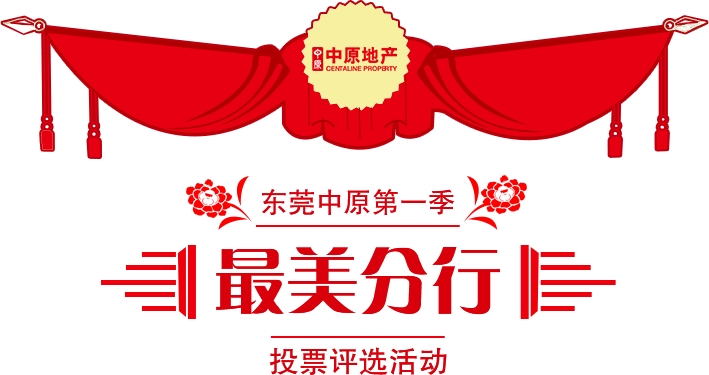
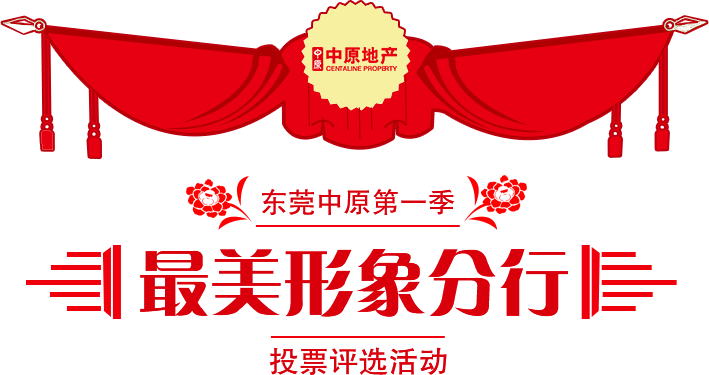
update

Changed region(s): [[0.031, 0.6453, 0.9619, 0.8507]]

diff --git a/src/components/homepage/HomePageBody.jsx b/src/components/homepage/HomePageBody.jsx
@@ -3,7 +3,7 @@ import PropTypes from 'prop-types'
 
 const icon1 = require('../../images/icon1.0.png')
 
-const HomePageBody = ({ teams, handleFormShow, handleDetailClick }) => {
+const HomePageBody = ({ teams, isSeasonEnd, handleFormShow, handleDetailClick }) => {
   return (
     <div>
       <div className="main-container">
@@ -29,18 +29,21 @@ const HomePageBody = ({ teams, handleFormShow, handleDetailClick }) => {
                   <span className="vote-count-span">总得分：{team.votingCount}</span>
                 </div>
               </div>
-              <footer className="item-foot-container" onClick={() => team.handleClick(team.id)}>
-
-                <span className="vote-btn-label">投TA一票</span>
-                <span className={team.className}></span>
-              </footer>
+              {isSeasonEnd ? null : (
+                <footer className="item-foot-container" onClick={() => team.handleClick(team.id)}>
+                  <span className="vote-btn-label">投TA一票</span>
+                  <span className={team.className}></span>
+                </footer>
+              )}
             </li>
           ))}
         </ul>
       </div>
-      <div className="btn-container">
-        <button className="vote-btn" onClick={handleFormShow}>马上投票</button>
-      </div>
+      { isSeasonEnd ? null : (
+        <div className="btn-container">
+          <button className="vote-btn" onClick={handleFormShow}>马上投票</button>
+        </div>
+      )}
     </div>
   )
 }

diff --git a/src/containers/HomePageContainer.jsx b/src/containers/HomePageContainer.jsx
@@ -67,23 +67,26 @@ class HomePageContainer extends React.Component {
   }
 
   render () {
-    const { teams, selectedTeamIds, handleSelectTeam, handleUnSelectTeam } = this.props
+    const { teams, selectedTeamIds, handleSelectTeam, handleUnSelectTeam, isSeasonEnd } = this.props
     const length = selectedTeamIds.length
-    teams.map(team => {
-      if (selectedTeamIds.findIndex(id => team.id === id) >= 0) {
-        team.className = 'vote-btn-btn-selected'
-        team.handleClick = handleUnSelectTeam
-      } else {
-        team.className = 'vote-btn-btn-default'
-        team.handleClick = length >= 3 ?
-          () => showErrorMesg('投票失败', '投票数不能超过3个')
-          :
-          handleSelectTeam
-      }
-    })
+    if (!isSeasonEnd) {
+      teams.map(team => {
+        if (selectedTeamIds.findIndex(id => team.id === id) >= 0) {
+          team.className = 'vote-btn-btn-selected'
+          team.handleClick = handleUnSelectTeam
+        } else {
+          team.className = 'vote-btn-btn-default'
+          team.handleClick = length >= 3 ?
+            () => showErrorMesg('投票失败', '投票数不能超过3个')
+            :
+            handleSelectTeam
+        }
+      })
+    }
     return (
       <HomePageComponent
         teams={teams}
+        isSeasonEnd={isSeasonEnd}
         handleFormShow={this.handleFormShow}
         handleDetailClick={this.handleDetailClick}
         handleSubmit={this.handleFormSubmit}

diff --git a/src/pages/HomePage.jsx b/src/pages/HomePage.jsx
@@ -10,7 +10,7 @@ import 'loaders.css/loaders.css'
 class HomePage extends React.Component {
 
   static defaultProps = {
-    title: '最美分行第一季度评选'
+    title: '最美形象分行第一季度评选'
   }
   static propTypes = {
     fetchRequestTeams: PropTypes.func.isRequired,
@@ -22,8 +22,8 @@ class HomePage extends React.Component {
   }
 
   render () {
-    const { teams, selectedTeamIds, errorMesgArray,
-      handleSelectTeam, handleUnSelectTeam, handlePostVoting, isVoting } = this.props
+    const { teams, selectedTeamIds, errorMesgArray, isSeasonEnd,isVoting,
+      handleSelectTeam, handleUnSelectTeam, handlePostVoting } = this.props
     const votingErrorMesg =
       errorMesgArray.find(e => e.errorType === actionTypes.POST_VOTING_FAILED) || null
     return teams? (
@@ -35,6 +35,7 @@ class HomePage extends React.Component {
         handlePostVoting={handlePostVoting}
         votingErrorMesg={votingErrorMesg}
         isVoting={isVoting}
+        isSeasonEnd={isSeasonEnd}
       />
   ) : <div>loading...</div>
   }
@@ -44,7 +45,8 @@ const mapStateToProps = state => ({
   teams: state.teams,
   selectedTeamIds: state.selectedTeamIds,
   errorMesgArray: state.errorMesgArray,
-  isVoting: state.isVoting
+  isVoting: state.isVoting,
+  isSeasonEnd: state.isSeasonEnd
 })
 
 const mapDispatchToProps = dispatch => ({

diff --git a/cfg/defaults.js b/cfg/defaults.js
@@ -26,7 +26,7 @@ function getDefaultModules() {
     loaders: [
       {
         test: /\.css$/,
-        loader: 'style-loader!css-loader'
+        loader: 'style-loader!css-loader!postcss-loader'
       },
       {
         test: /\.sass/,
@@ -34,15 +34,15 @@ function getDefaultModules() {
       },
       {
         test: /\.scss/,
-        loader: 'style-loader!css-loader!sass-loader?outputStyle=expanded'
+        loader: 'style-loader!css-loader!sass-loader?outputStyle=expanded!postcss-loader'
       },
       {
         test: /\.less/,
-        loader: 'style-loader!css-loader!less-loader'
+        loader: 'style-loader!css-loader!less-loader!postcss-loader'
       },
       {
         test: /\.styl/,
-        loader: 'style-loader!css-loader!stylus-loader'
+        loader: 'style-loader!css-loader!stylus-loader!postcss-loader'
       },
       {
         test: /\.(png|jpg|gif|woff|woff2)$/,

diff --git a/src/components/homepage/index.jsx b/src/components/homepage/index.jsx
@@ -5,16 +5,14 @@ import HomePageBody from './HomePageBody'
 import HomePageFooter from './HomePageFooter'
 import Alert from '../Alert'
 
-const HomePageComponent = ({teams, isShowForm, handleFormShow, handleDetailClick, handleFormSubmit, handleFormCancel}) => {
+const HomePageComponent = ({teams, isSeasonEnd, isShowForm, handleFormShow, handleDetailClick, handleFormSubmit, handleFormCancel}) => {
   return (
     <div className="container">
-      <div className="logo-container1">
-        <img src={require('../../images/logo.png')}/>
-      </div>
       <div className="body-container">
         <HomePageHeader />
         <HomePageBody
           teams={teams}
+          isSeasonEnd={isSeasonEnd}
           handleFormShow={handleFormShow}
           handleDetailClick={handleDetailClick}
         />

diff --git a/src/Redux/actions/index.js b/src/Redux/actions/index.js
@@ -10,16 +10,17 @@ export function requestTeams(seasonId) {
 
 export const fetchRequestTeams = seasonId => dispatch => {
   dispatch(requestTeams(seasonId))
-  getTeamsRank(seasonId, dataList => {
-    dispatch(receiveTeams(dataList))
+  getTeamsRank(seasonId, (dataList, isSeasonEnd) => {
+    dispatch(receiveTeams(dataList, isSeasonEnd))
   }, errorMesg => {
     dispatch(receiveTeamsFailed(errorMesg))
   })
 }
 
-export function receiveTeams(teams) {
+export function receiveTeams(teams, isSeasonEnd) {
   return {
     type: actionTypes.RECEIVE_TEAMS,
+    isSeasonEnd,
     teams
   }
 }

diff --git a/src/Redux/reducers/index.js b/src/Redux/reducers/index.js
@@ -9,7 +9,8 @@ const initialState = {
   isVoting: null,
   isTeamsLoading: null,
   isVoterStatusLoading: null,
-  selectedTeamIds: []
+  selectedTeamIds: [],
+  isSeasonEnd: null
 }
 
 function receiveErrorMesg(state, action) {
@@ -41,6 +42,7 @@ function receiveTeams(state, action) {
   return {
     ...state,
     teams: action.teams,
+    isSeasonEnd: action.isSeasonEnd,
     isTeamsLoading: false
   }
 }

diff --git a/src/index.html b/src/index.html
@@ -2,7 +2,7 @@
 <html>
 <head>
   <meta charset="utf-8">
-  <title>最美分行第一季度评选</title>
+  <title>最美形象分行第一季度评选</title>
   <meta http-equiv="X-UA-Compatible" content="IE=edge,chrome=1">
   <meta name="description" content="">
   <meta name="viewport" content="width=device-width, initial-scale=1.0, maximum-scale=1.0, user-scalable=no">

diff --git a/src/middleWares/api.js b/src/middleWares/api.js
@@ -17,7 +17,7 @@ export const getTeamsRank = (seasonid, callback, failCallback) => {
       if (resp.ok && resp.status === 200) {
         resp.json().then(json => {
           if (json.status === 0) {
-            callback(json.dataList)
+            callback(json.dataList, json.isSeasonEnd)
           } else {
             failCallback(json.message)
           }

diff --git a/src/components/homepage/HomePageHeader.jsx b/src/components/homepage/HomePageHeader.jsx
@@ -2,7 +2,7 @@ import React from 'react'
 
 const HomePageHeader = () => (
   <header className="header-img-container">
-    <img className="header-img" src={require('../../images/WechatIMG715.png')}/>
+    <img className="header-img" src={require('../../images/header.png')}/>
   </header>
 )
 

diff --git a/src/styles/App.scss b/src/styles/App.scss
@@ -41,7 +41,7 @@ ul {
   display: flex;
   flex-direction: column;
   min-height: 100vh;
-  min-width: 100vw;
+  min-width: 98vw;
   background-color: $baseColor;
   padding: 0 16px;
 }

diff --git a/postcss.config.js b/postcss.config.js
@@ -1,0 +1,5 @@
+module.exports = {
+  plugins: [
+    require('autoprefixer')
+  ]
+}
